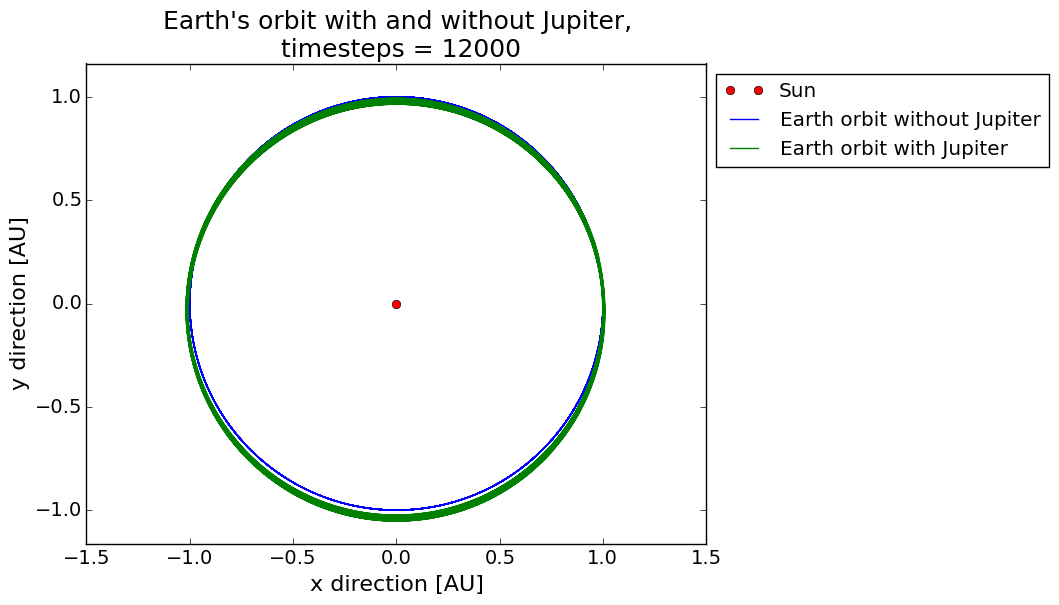
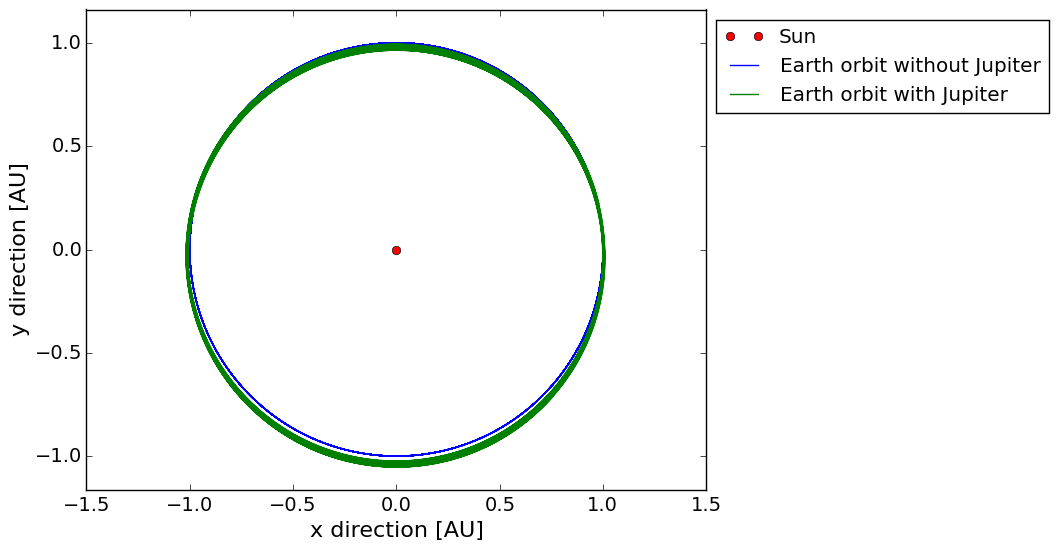
updates

diff --git a/Project_3/examples.cpp b/Project_3/examples.cpp
@@ -100,9 +100,7 @@ int examples::sun_mercury_GR(SolarSystem &solarSystem, int printEvery) {
 
     // We don't need to store the reference, but just call the function without a left hand side
     // Mercury
-    solarSystem.createCelestialBody( vec3(-1.388351215994794E-01, 2.874076124640064E-01, 3.611730762400382E-02),
-                                     vec3(-3.081033504804020E-02, -1.153752302730325E-02, 1.883146626624065E-03)*365.0,
-                                     1.2e-7, "Mercury");
+    solarSystem.createCelestialBody( vec3(0.3075, 0, 0), vec3(0, 12.44, 0), 1.2e-7, "Mercury");
 
     // To get a list (a reference, not copy) of all the bodies in the solar system, we use the .bodies() function
     vector<CelestialBody> &bodies = solarSystem.bodies();
@@ -112,7 +110,7 @@ int examples::sun_mercury_GR(SolarSystem &solarSystem, int printEvery) {
         cout << "The position of this object is " << body.position << " with velocity " << body.velocity << endl;
     }
 
-    solarSystem.integrate(printEvery, withGr);
+    solarSystem.integrate_Gr(printEvery, withGr);
 
     return 0;
 }
@@ -150,7 +148,9 @@ int examples::sun_earth_jupiter(SolarSystem &solarSystem, int printEvery) {
 int examples::system_without_GR(SolarSystem &solarSystem, int printEvery) {
     bool withGr = false;
     // Sun
-    CelestialBody &sun = solarSystem.createCelestialBody( vec3(0,0,0), vec3(0,0,0), 1.0, "Sun" );
+    CelestialBody &sun = solarSystem.createCelestialBody( vec3(3.585100173357053E-03, 3.341055486339009E-03, -1.601950107014929E-04),
+                                                          vec3(-1.907873665020832E-06, 6.862862055939106E-06, 3.825142570341908E-08)*365.0,
+                                                          1.0, "Sun" );
 
     // We don't need to store the reference, but just call the function without a left hand side
     // Mercury
@@ -219,66 +219,12 @@ int examples::system_without_GR(SolarSystem &solarSystem, int printEvery) {
     return 0;
 }
 
-int examples::system_with_GR(SolarSystem &solarSystem, int printEvery) {
-    bool withGr = true;
-    // Sun
-    CelestialBody &sun = solarSystem.createCelestialBody( vec3(0,0,0), vec3(0,0,0), 1.0, "Sun" );
-
-    // We don't need to store the reference, but just call the function without a left hand side
-    // Mercury
-    solarSystem.createCelestialBody( vec3(-1.388351215994794E-01, 2.874076124640064E-01, 3.611730762400382E-02),
-                                     vec3(-3.081033504804020E-02, -1.153752302730325E-02, 1.883146626624065E-03)*365.0,
-                                     1.2e-7, "Mercury");
-    // Venus
-    solarSystem.createCelestialBody( vec3(2.531171709934956E-03, -7.235439738148072E-01, -1.006620932838833E-02),
-                                     vec3(2.008934322426700E-02, -9.726053625259401E-05, -1.160780990531775E-03)*365.0,
-                                     2.45e-6, "Venus");
-    // Earth
-    solarSystem.createCelestialBody( vec3(9.819128739328793E-01, 2.104822076393571E-01, -1.756137106591000E-04),
-                                     vec3(-3.851159854117840E-03, 1.677807321756382E-02, -7.444403689401816E-07)*365.0,
-                                     3.0e-6, "Earth");
-    // Mars
-    solarSystem.createCelestialBody( vec3(1.074137801923908E+00, -8.751565791508180E-01, -4.484330241084649E-02),
-                                     vec3(9.406114898320066E-03, 1.202410268499505E-02, 2.097435381751857E-05)*365.0,
-                                     3.3e-7, "Mars");
-    // Jupiter
-    solarSystem.createCelestialBody( vec3(-5.433468170028908E+00, -3.819061221110369E-01, 1.231004384238452E-01),
-                                     vec3(4.425651679847022E-04, -7.171108917491057E-03, 1.992744446163222E-05)*365.0,
-                                     9.5e-4, "Jupiter");
-    // Saturn
-    solarSystem.createCelestialBody( vec3(-2.318303159285024E+00, -9.761896118742531E+00, 2.619996914174937E-01),
-                                     vec3(5.122777078109817E-03, -1.306326757884738E-03, -1.812965626845902E-04)*365.0,
-                                     2.75e-4, "Saturn");
-    // Uranus
-    solarSystem.createCelestialBody( vec3(1.847838443295973E+01, 7.526847462019028E+00, -2.114361038013451E-01),
-                                     vec3(-1.512383759608680E-03, 3.459146288519939E-03, 3.242416050249801E-05)*365.0,
-                                     4.4e-5, "Uranus");
-    // Neptune
-    solarSystem.createCelestialBody( vec3(2.825072704568992E+01, -9.952093577677799E+00, -4.461218547546795E-01),
-                                     vec3(1.022588623946866E-03, 2.979574756810357E-03, -8.514325155122657E-05)*365.0,
-                                     5.15e-5, "Neptune");
-    // Pluto
-    solarSystem.createCelestialBody( vec3(9.393096450667111E+00, -3.182064102580347E+01, 6.879522592437006E-01),
-                                     vec3(3.065499934972441E-03, 2.293283900283695E-04, -9.119583887771224E-04)*365.0,
-                                     6.55e-9, "Pluto");
-
-    // To get a list (a reference, not copy) of all the bodies in the solar system, we use the .bodies() function
-    vector<CelestialBody> &bodies = solarSystem.bodies();
-
-    for(int i = 0; i < bodies.size(); i++) {
-        CelestialBody &body = bodies[i]; // Reference to this body
-        cout << "The position of this object is " << body.position << " with velocity " << body.velocity << endl;
-    }
-
-    // Integrate
-    solarSystem.integrate(printEvery, withGr);
-
-    return 0;
-}
 
 int examples::system_runtime(SolarSystem &solarSystem) {
     // Sun
-    CelestialBody &sun = solarSystem.createCelestialBody( vec3(0,0,0), vec3(0,0,0), 1.0, "Sun" );
+    CelestialBody &sun = solarSystem.createCelestialBody( vec3(3.585100173357053E-03, 3.341055486339009E-03, -1.601950107014929E-04),
+                                                          vec3(-1.907873665020832E-06, 6.862862055939106E-06, 3.825142570341908E-08)*365.0,
+                                                          1.0, "Sun" );
 
     // We don't need to store the reference, but just call the function without a left hand side
     // Mercury

diff --git a/Project_3/solarsystem.cpp b/Project_3/solarsystem.cpp
@@ -91,11 +91,36 @@ void SolarSystem::writeToFile(string filename, string mode)
     } else if (mode == "Python") {
         // Writing file to use with Python, (mode == "Python")
         for(CelestialBody &body : m_bodies) {
-            m_file << setw(25) << body.position.x() << setw(25) << body.position.y() << setw(25) << body.position.z() << "\n";
+            m_file << setw(25) << setprecision(15) << body.position.x() << setw(25) << body.position.y() << setw(25) << body.position.z() << "\n";
         }
     }
+}
 
+void SolarSystem::writeToFile_Gr(string filename, string mode)
+{
+    if(!m_file.good()) {
+        m_file.open(filename.c_str(), ofstream::out);
+        if(!m_file.good()) {
+            cout << "Error opening file " << filename << ". Aborting!" << endl;
+            terminate();
+        }
+    }
+    //m_bodies.at(i).position
 
+    if (mode == "Ovito") {
+        // Writing file to use with Ovito, (mode == "Ovito")
+        m_file << numberOfBodies() << endl;
+        m_file << "The rows are the celestial bodies stacked, and the columns are x, y and z positions." << endl;
+        for(CelestialBody &body : m_bodies) {
+            m_file << body.name << " " << body.position.x() << " " << body.position.y() << " " << body.position.z() << " " << body.radius() << "\n";
+        }
+
+    } else if (mode == "Python") {
+        // Writing file to use with Python, (mode == "Python")
+        for(CelestialBody &body : m_bodies) {
+            m_file << setw(25) << setprecision(15) << body.position.x() << setw(25) << body.position.y() << setw(25) << body.position.z() << "\n";
+        }
+    }
 }
 
 vec3 SolarSystem::angularMomentum() const
@@ -123,16 +148,18 @@ void SolarSystem::calculateForcesAndEnergyGr() {
         double dr;
         for(int j=i+1; j<numberOfBodies(); j++) {
             CelestialBody &body2 = m_bodies[j];
-            if (body1.name == "Sun" && body2.name == "Mercury") {
-                vec3 deltaRVector = body1.position - body2.position;
-                dr = deltaRVector.length();
+            //if (body1.name == "Sun" && body2.name == "Mercury") {
+            vec3 deltaRVector = body1.position - body2.position;
+            //dr = deltaRVector.length();
+            dr = 1.0/deltaRVector.length();
 
-                // Calculate the force and potential energy here
-                vec3 l = body2.position.cross(body2.velocity); //(1.0/body2.mass)*
-                vec3 force = m_G*body1.mass*body2.mass / (dr*dr) * deltaRVector.normalized() * (1 + 3*l.lengthSquared()/(dr*dr*m_c*m_c));
-                body1.force -= force;
-                body2.force += force;
-            } else {
+            // Calculate the force and potential energy here
+            //vec3 l = body2.position.cross(body2.velocity); //(1.0/body2.mass)*
+            //vec3 force = m_G*body1.mass*body2.mass / (dr*dr) * deltaRVector.normalized() * (1 + 3*l.lengthSquared()/(dr*dr*m_c*m_c));
+            vec3 force = m_G*body1.mass*body2.mass * (dr*dr*dr) * deltaRVector * (1 + 3 * m_l2 * dr * dr * m_c2);
+            body1.force -= force;
+            body2.force += force;
+            /*} else {
                 vec3 deltaRVector = body1.position - body2.position;
                 dr = deltaRVector.length();
 
@@ -140,12 +167,12 @@ void SolarSystem::calculateForcesAndEnergyGr() {
                 vec3 force = m_G*body1.mass*body2.mass / (dr*dr) * deltaRVector.normalized();
                 body1.force -= force;
                 body2.force += force;
-
-                m_kineticEnergy += 0.5*body2.mass*body2.velocity.lengthSquared();
-                m_potentialEnergy -= m_G*body2.mass/dr;
-                m_angularMomentum += body2.position.cross(body2.velocity);
-            }
+*/
+            m_kineticEnergy += 0.5*body2.mass*body2.velocity.lengthSquared();
+            m_potentialEnergy -= m_G*body2.mass/dr;
+            m_angularMomentum += body2.position.cross(body2.velocity);
         }
+        //}
     }
 }
 
@@ -191,6 +218,46 @@ void SolarSystem::integrate(int printEvery, bool withGr) {
     }
     cout << "I just created my first solar system that has " << bodies().size() << " objects" << endl;
     cout << "using the " << m_integrator << " integrator and wrote to the file " << m_outfilename << " that I can read from " << m_outputmode << "." << endl;
+}
+
+// Writing every specified timestep to file
+void SolarSystem::integrate_Gr(int printEvery, bool withGr) {
+    if (m_integrator == "Verlet") {
+        double rCurrent = 0;
+        double rPreviousPrevious = 0;
+        double rPrevious = 0;
+        double thetaPrevious = 0;
+        double thetaCurrent = 0;
+        m_l2 = m_bodies[1].position.cross(m_bodies[1].velocity).lengthSquared();
+
+        double* theta = new double[1000];
+        int thetaCounter = 0;
+
+        Verlet integrator(m_dt);
+        for (int i=0; i<m_numTimesteps; i++) {
+            integrator.integrateOneStep(*this, withGr);
+            vec3 r = (m_bodies[1].position - m_bodies[0].position);
+            rCurrent = r.length();
+            if (rPrevious < rCurrent && rPreviousPrevious) {
+                theta[thetaCounter] = thetaPrevious;
+                thetaCounter++;
+            }
+            rPreviousPrevious = rPrevious;
+            rPrevious = rCurrent;
+            thetaPrevious = thetaCurrent;
+            thetaCurrent = atan2(r.y(), r.x());
+
+            /*if (i % printEvery == 0) {
+                writeToFile_GR("../Project_3/outputs/"+m_outfilename, m_outputmode);
+            }*/
+        }
+        for (int i=0; i< thetaCounter; i++) {
+            cout << theta[i] << endl;
+        }
+
+        cout << "I just created my first solar system that has " << bodies().size() << " objects" << endl;
+        cout << "using the " << m_integrator << " integrator and wrote to the file " << m_outfilename << " that I can read from " << m_outputmode << "." << endl;
+    }
 }
 
 // Runtime test without writing to file, testing the algorithms time usage

diff --git a/Project_3/Project_3.py b/Project_3/Project_3.py
@@ -17,7 +17,7 @@ outfilename = "positions.xyz"
 integrator = "Verlet"
 systemstring = "Sun-Earth"
 printEvery = 1
-optimization_flag = "-O0"
+optimization_flag = "-O3"
 
 
 # Compile C++ code first (all cpp-files)
@@ -46,16 +46,12 @@ def Two_body(positions, systemstring):
     plot(0, 0, marker="o", color="#FF0000") # Marks the spot of the Sun
     art = []
     if systemstring == "Sun-Earth":
-        title("The "+systemstring+" system, \n timesteps = %d, integrator: %s" %(numTimesteps, integrator), fontsize = 18)
         orbit = "Earth orbit"
     if systemstring == "Sun-Mercury":
-        title("The "+systemstring+" system, \n timesteps = %d" %numTimesteps, fontsize = 18)
         orbit = "Mercury orbit"
     if systemstring == "Sun-Mercury-GR":
-        title("The Sun-Mercury system with GR, \n timesteps = %d" %numTimesteps, fontsize = 18)
         orbit = "Mercury orbit"
     if systemstring == "Planet-Escape":
-        title("The planet escape system, \n timesteps = %d" %numTimesteps, fontsize = 18)
         orbit = "Planet escape"
     lgd = legend(["Sun", orbit], loc="upper left", bbox_to_anchor=(1, 1))
     xlabel("x direction [AU]", fontsize = 16)
@@ -80,7 +76,6 @@ def Three_body(positions, systemstring):
     plot(0, 0, marker="o", color="#FF0000") # Marks the spot of the Sun
     art = []
     if systemstring == "Sun-Earth-Jupiter":
-        title("The "+systemstring+" system, \n timesteps = %d" %numTimesteps, fontsize = 18)
         orbit1 = "Earth orbit"
         orbit2 = "Jupiter orbit"
     lgd = legend(["Sun", orbit1, orbit2], loc="upper left", bbox_to_anchor=(1, 1))
@@ -104,10 +99,6 @@ def Ten_body(positions, systemstring):
         plot(positions[i::num][:, 0], positions[i::num][:, 1], positions[i::num][:, 2], color=next(colors))
         hold("on")
     ax.scatter(0, 0, 0, marker="o", color="#FFFF00")
-    if systemstring == "System-without-GR":
-        title("The solar system without GR, \n timesteps = %d" %numTimesteps, fontsize = 18)
-    if systemstring == "System-with-GR":
-        title("The solar system with GR on Mercury, \n timesteps = %d" %numTimesteps, fontsize = 18)
     ax.set_xlabel("x direction [AU]", fontsize = 16, linespacing=2.5)
     ax.set_ylabel("y direction [AU]", fontsize = 16, linespacing=2.5)
     ax.set_zlabel("z direction [AU]", fontsize = 16, linespacing=2.5)

diff --git a/Project_3/solarsystem.h b/Project_3/solarsystem.h
@@ -18,6 +18,7 @@ public:
     double potentialEnergy() const;
     double kineticEnergy() const;
     void writeToFile(std::string filename, std::__1::string mode);
+    void writeToFile_Gr(std::string filename, std::__1::string mode);
     vec3 angularMomentum() const;
     std::vector<CelestialBody> &bodies();
     void integrate(int printEvery, bool withGr);
@@ -28,6 +29,7 @@ public:
     void setIntegrator(std::string integrator);
     void calculateForcesAndEnergyGr();
     void integrate_runtime();
+    void integrate_Gr(int printEvery, bool withGr);
 
 
 private:
@@ -41,8 +43,10 @@ private:
     std::string m_outputmode;
     std::string m_outfilename;
     std::string m_integrator;
-    const double m_c = 63239.7263;  // Speed of light in AU/yr
+    //const double m_c = 63239.7263;  // Speed of light in AU/yr
+    const double m_c2 = (1.0/63239.7263)*(1.0/63239.7263); // (1/(Speed of light in AU/yr))^2
     const double m_G = 4*M_PI*M_PI; // Gravitational constant in AU^3/yr^2
+    double m_l2 = 0;
 };
 
 #endif // SOLARSYSTEM_H

diff --git a/Project_3/unit_test.cpp b/Project_3/unit_test.cpp
@@ -30,10 +30,10 @@ TEST_CASE( "Conservation of angular momentum and total energy", "Approximation" 
 
     // Adding celestial bodies to system
     // Sun
-    solarSystem.createCelestialBody(vec3(0,0,0), vec3(0,0,0), 1.0, "Sun");
+    solarSystem.createCelestialBody( vec3(0,0,0), vec3(0,0,0), 1.0, "Sun");
 
     // Earth
-    solarSystem.createCelestialBody(vec3(1.0, 0.0, 0.0), vec3(0.0, 2*M_PI, 0), 3.0e-6, "Earth");
+    solarSystem.createCelestialBody( vec3(1.0, 0.0, 0.0), vec3(0.0, 2*M_PI, 0), 3.0e-6, "Earth");
 
 
     // Integrate system
@@ -52,6 +52,7 @@ TEST_CASE( "Conservation of angular momentum and total energy", "Approximation" 
     double A_totalEnergy = A_kineticEnergy + A_potentialEnergy;
     // Length of angular momentum: |l| = ||r x v|| = 2*pi
     double A_LengthOfAngularMomentum = 2*M_PI;
+
 
     // Conservation of energy
     REQUIRE(totalEnergy == Approx(A_totalEnergy));

diff --git a/Project_3/main.cpp b/Project_3/main.cpp
@@ -59,9 +59,6 @@ int main(int numArguments, char **arguments) {
     if (system == "System-without-GR") {
         examples::system_without_GR(solarSystem, printEvery);
     }
-    if (system == "System-with-GR") {
-        examples::system_with_GR(solarSystem, printEvery);
-    }
     // Testing the runtime of the system. Does not write to file. Use with Python program 'Project_3.py'.
     if (system == "System-runtime") {
         examples::system_runtime(solarSystem);

diff --git a/Project_3/examples.h b/Project_3/examples.h
@@ -12,7 +12,6 @@ public:
     static int sun_mercury_GR(SolarSystem &solarSystem, int printEvery);
     static int sun_earth_jupiter(SolarSystem &solarSystem, int printEvery);
     static int system_without_GR(SolarSystem &solarSystem, int printEvery);
-    static int system_with_GR(SolarSystem &solarSystem, int printEvery);
     static int system_runtime(SolarSystem &solarSystem);
 };
 

diff --git a/Project_3/README.md b/Project_3/README.md
@@ -11,7 +11,7 @@ Default setup in C++ program:
 * outputmode = "Ovito"            (Use "Ovito" or "Python" for wrinting to file)
 * outfilename = "positions.xyz"       (The output file name of your choice. Use .xyz for use with Ovito)
 * integrator = "Verlet"           (Use "Verlet" or "Euler")
-* system = "Sun-Earth"            (Use "Sun-Earth", "Planet-Escape", "Sun-Mercury", "Sun-Mercury-GR", "Sun-Earth-Jupiter", "System-without-GR" or "System-with-GR")
+* system = "Sun-Earth"            (Use "Sun-Earth", "Planet-Escape", "Sun-Mercury", "Sun-Mercury-GR", "Sun-Earth-Jupiter" or "System-without-GR")
 * printEvery = 1                  (Writes every number of steps of your choice. "1" means every timestep. If you use 100000 timesteps for i.e. "System-without-GR", the output file will be approximately 50 MB. 'GitHub will warn you when pushing files larger than 50 MB. You will not be allowed to push files larger than 100 MB.' So if you want to use more than 100000 timesteps you should consider printing i.e. every 500 timesteps to reduce the file size.)
 
 Default setup in Python file 'Project_3.py':
@@ -21,7 +21,9 @@ The default setup in Python are mainly the same, but there are a few differences
 
 Python files:
 * 'Python_3_runtimes.py' calculates the runtimes for different values of timesteps, integrators and optimization flags. 
-* 'Project_3_special.py' plots the Sun and the Earth for calculated positions with Sun-Earth system and Sun-Earth-Jupiter system.
+* 'Project_3_SE_special.py' plots the Sun and the Earth for calculated positions with Sun-Earth system and Sun-Earth-Jupiter system.
+* 'Project_3_dt_special.py' plots the Sun-Earth system with 10000 timesteps and different dt's. 
+* 'Project_3_Mercury.py' plots the perihelion precession of Mercury. 
 
 The systems:
 * "Sun-Earth" gives the Earth orbiting the Sun.
@@ -30,5 +32,4 @@ The systems:
 * "Sun-Mercury-GR" gives Mercury orbiting the Sun by calculating general relativity.
 * "Sun-Earth-Jupiter" gives the Earth and Jupiter orbiting the Sun.
 * "System-without-GR" gives the solar system (with Pluto).
-* "System-with-GR" gives the solar system (with Pluto) by calculating general relativity for Mercury.
 * "System-runtime" is run by 'Project_3_runtimes.py' and calculates runtimes for the algorithms. 
